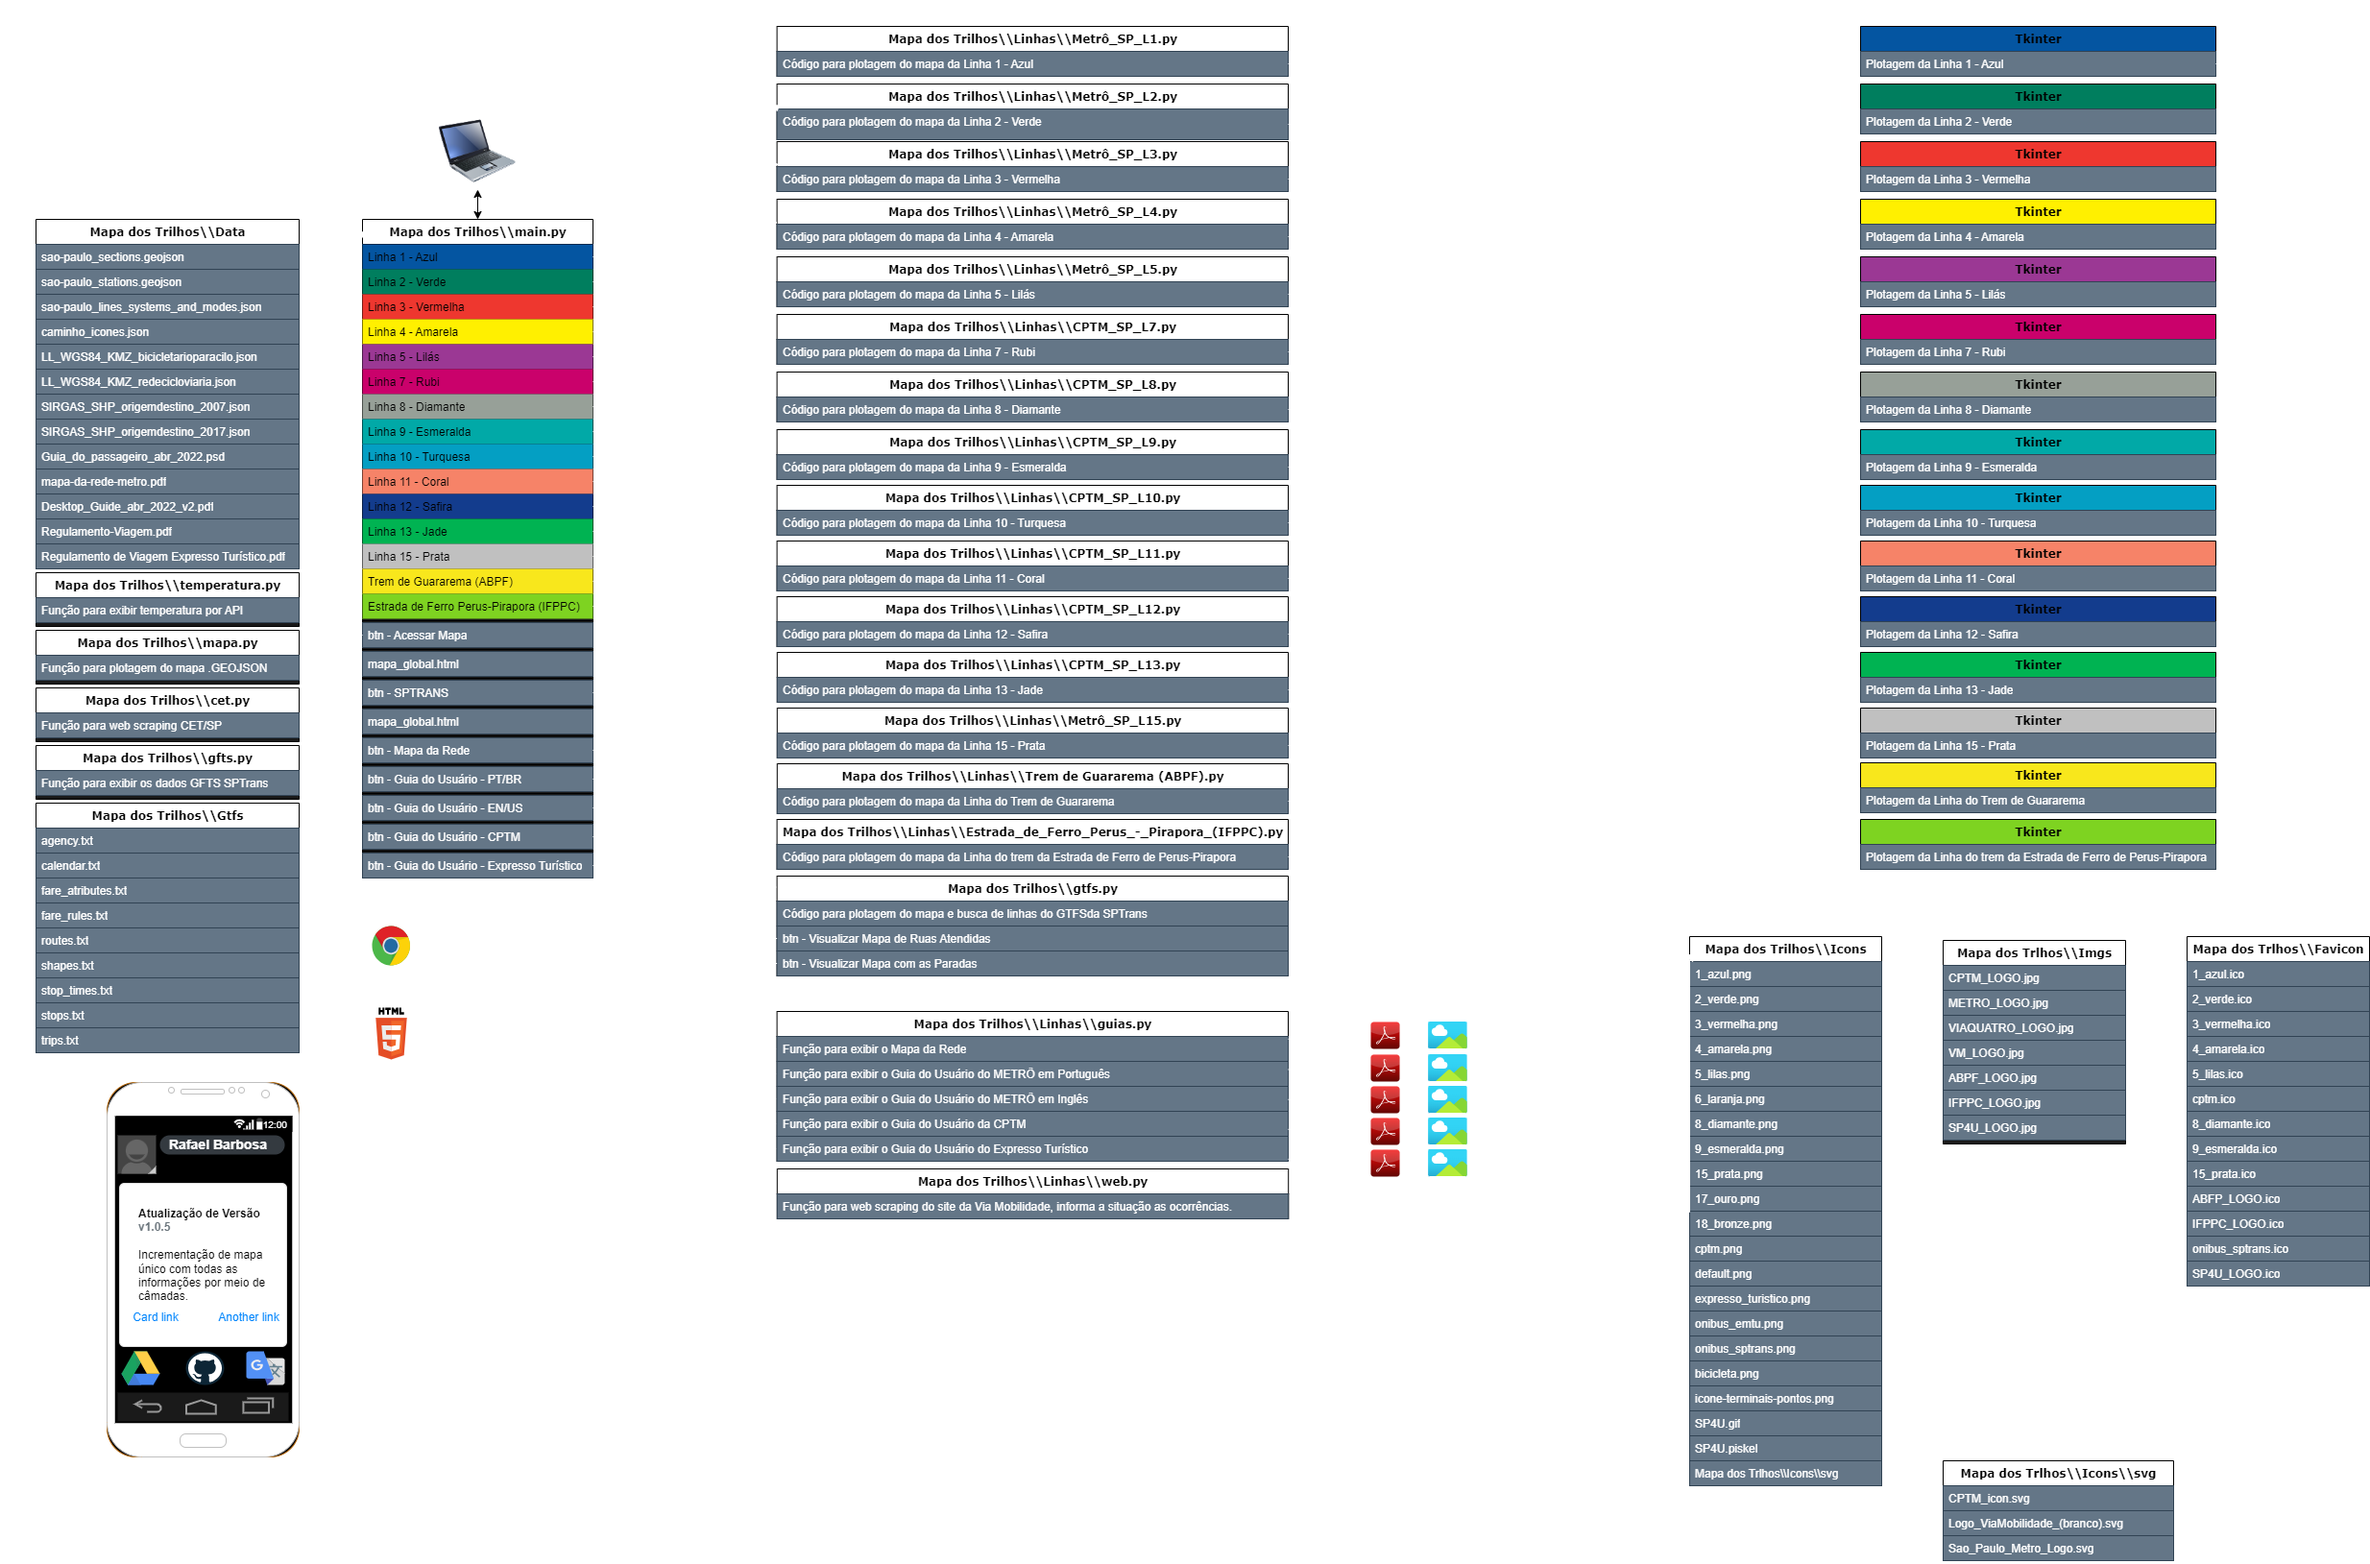
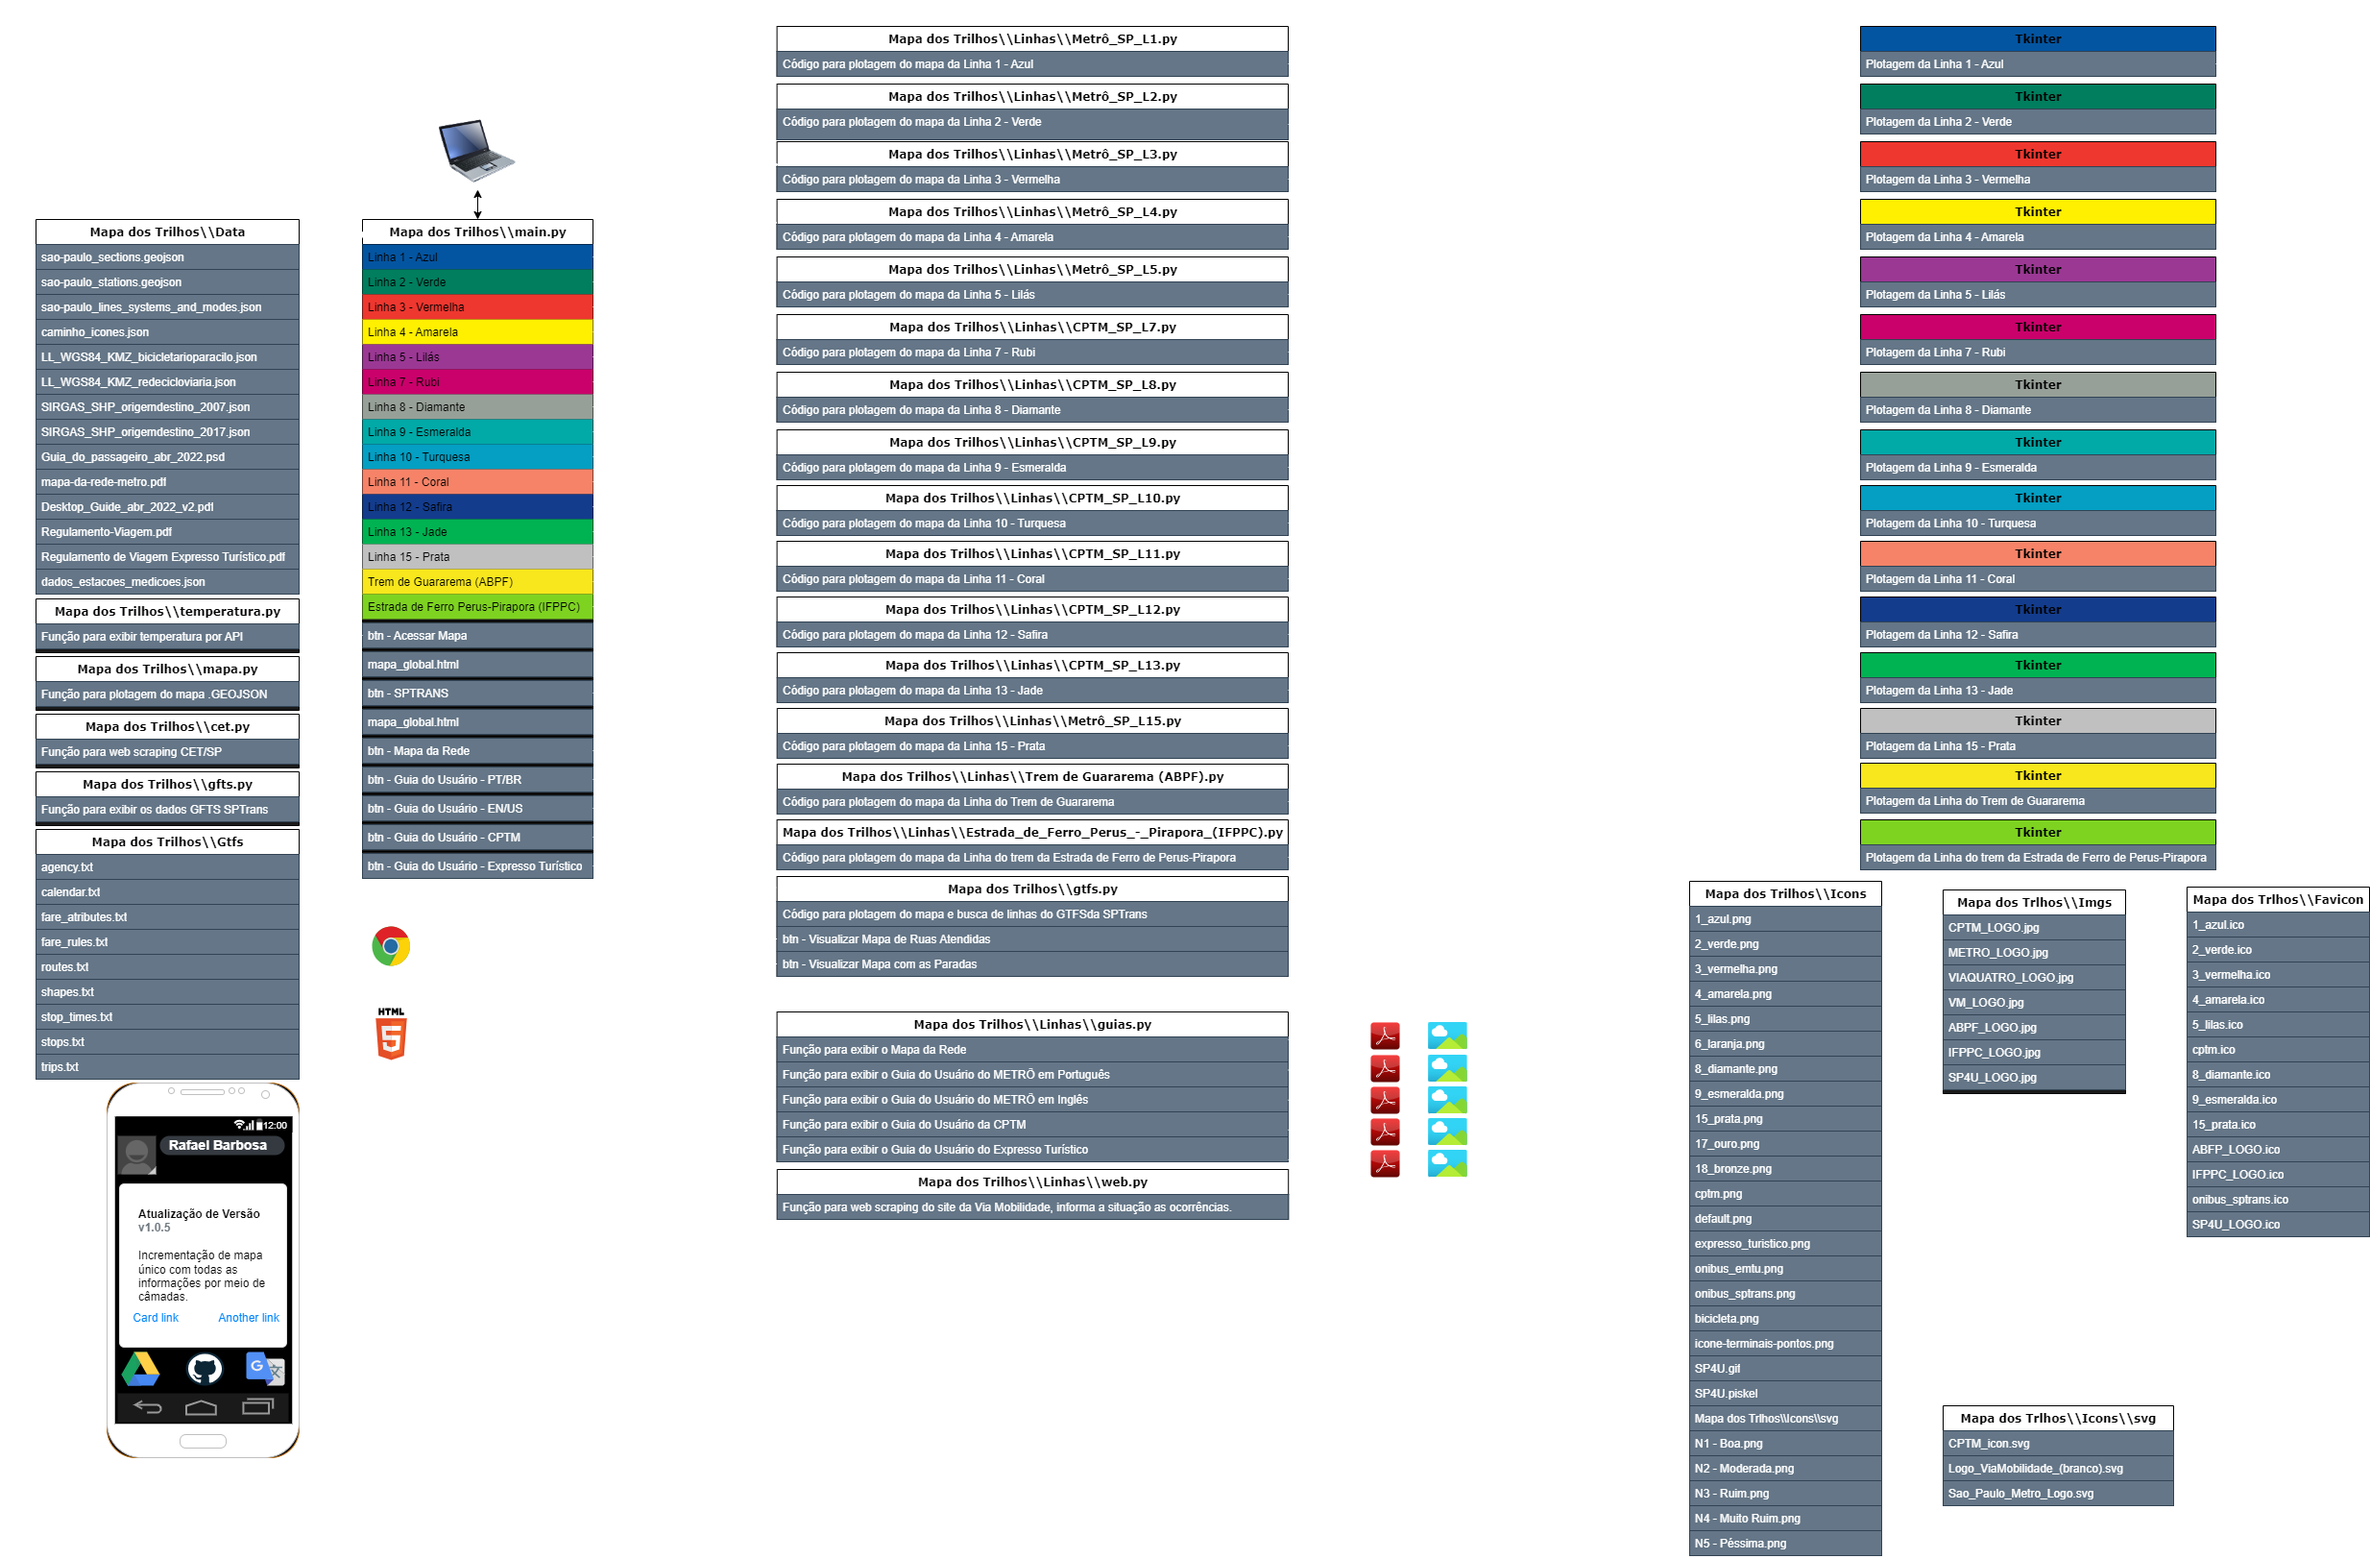
main

diff --git a/Mapa dos Trilhos/mapa.py b/Mapa dos Trilhos/mapa.py
@@ -8,6 +8,7 @@ import csv
 from pyproj import Transformer
 import os
 import requests
+from datetime import datetime, timedelta
 
 def mapa_global():
     # Coordenadas do centro de São Paulo
@@ -437,7 +438,19 @@ def mapa_global():
     map_file = "Mapa dos Trilhos\\mapa_global.html"
 
     # Verifica se o arquivo já existe
-    if not os.path.exists(map_file):
+    if os.path.exists(map_file):
+        # Obtém as informações de tempo do arquivo
+        tempo_modificacao = datetime.fromtimestamp(os.path.getmtime(map_file))
+        tempo_atual = datetime.now()
+
+        # Calcula a diferença de tempo
+        diferenca_tempo = tempo_atual - tempo_modificacao
+
+        # Se o arquivo foi criado a mais de 1 hora, gera um novo mapa
+        if diferenca_tempo > timedelta(hours=1):
+            # Salva o mapa como HTML
+            salvar_mapa_como_html(m, map_file)
+    else:
         # Salva o mapa como HTML
         salvar_mapa_como_html(m, map_file)
 

diff --git a/README.md b/README.md
@@ -99,8 +99,8 @@ Em ambos os sistemas operacionais, a tela que deverá ser exibida é parecida co
 ![Diagrama da versão atual v1.0.5](https://github.com/Rafabs/Sampa-4-u/blob/main/Diagrama/diagrama_v1.0.5.png)
 
 ## To Do
-- [ ] ```Em desenvolvimento - Sem Previsão``` Inserir dados da Qualidade do Ar no Mapa
-- [ ] Melhorias de interface gráfica da tela inicial ```v1.0.6```
+- [x] Inserir dados da Qualidade do Ar no Mapa
+- [ ] ```Em desenvolvimento - Sem Previsão``` Melhorias de interface gráfica da tela inicial ```v1.0.6```
 - [ ] Atualizar diagrama
 
 ## Contribuição
